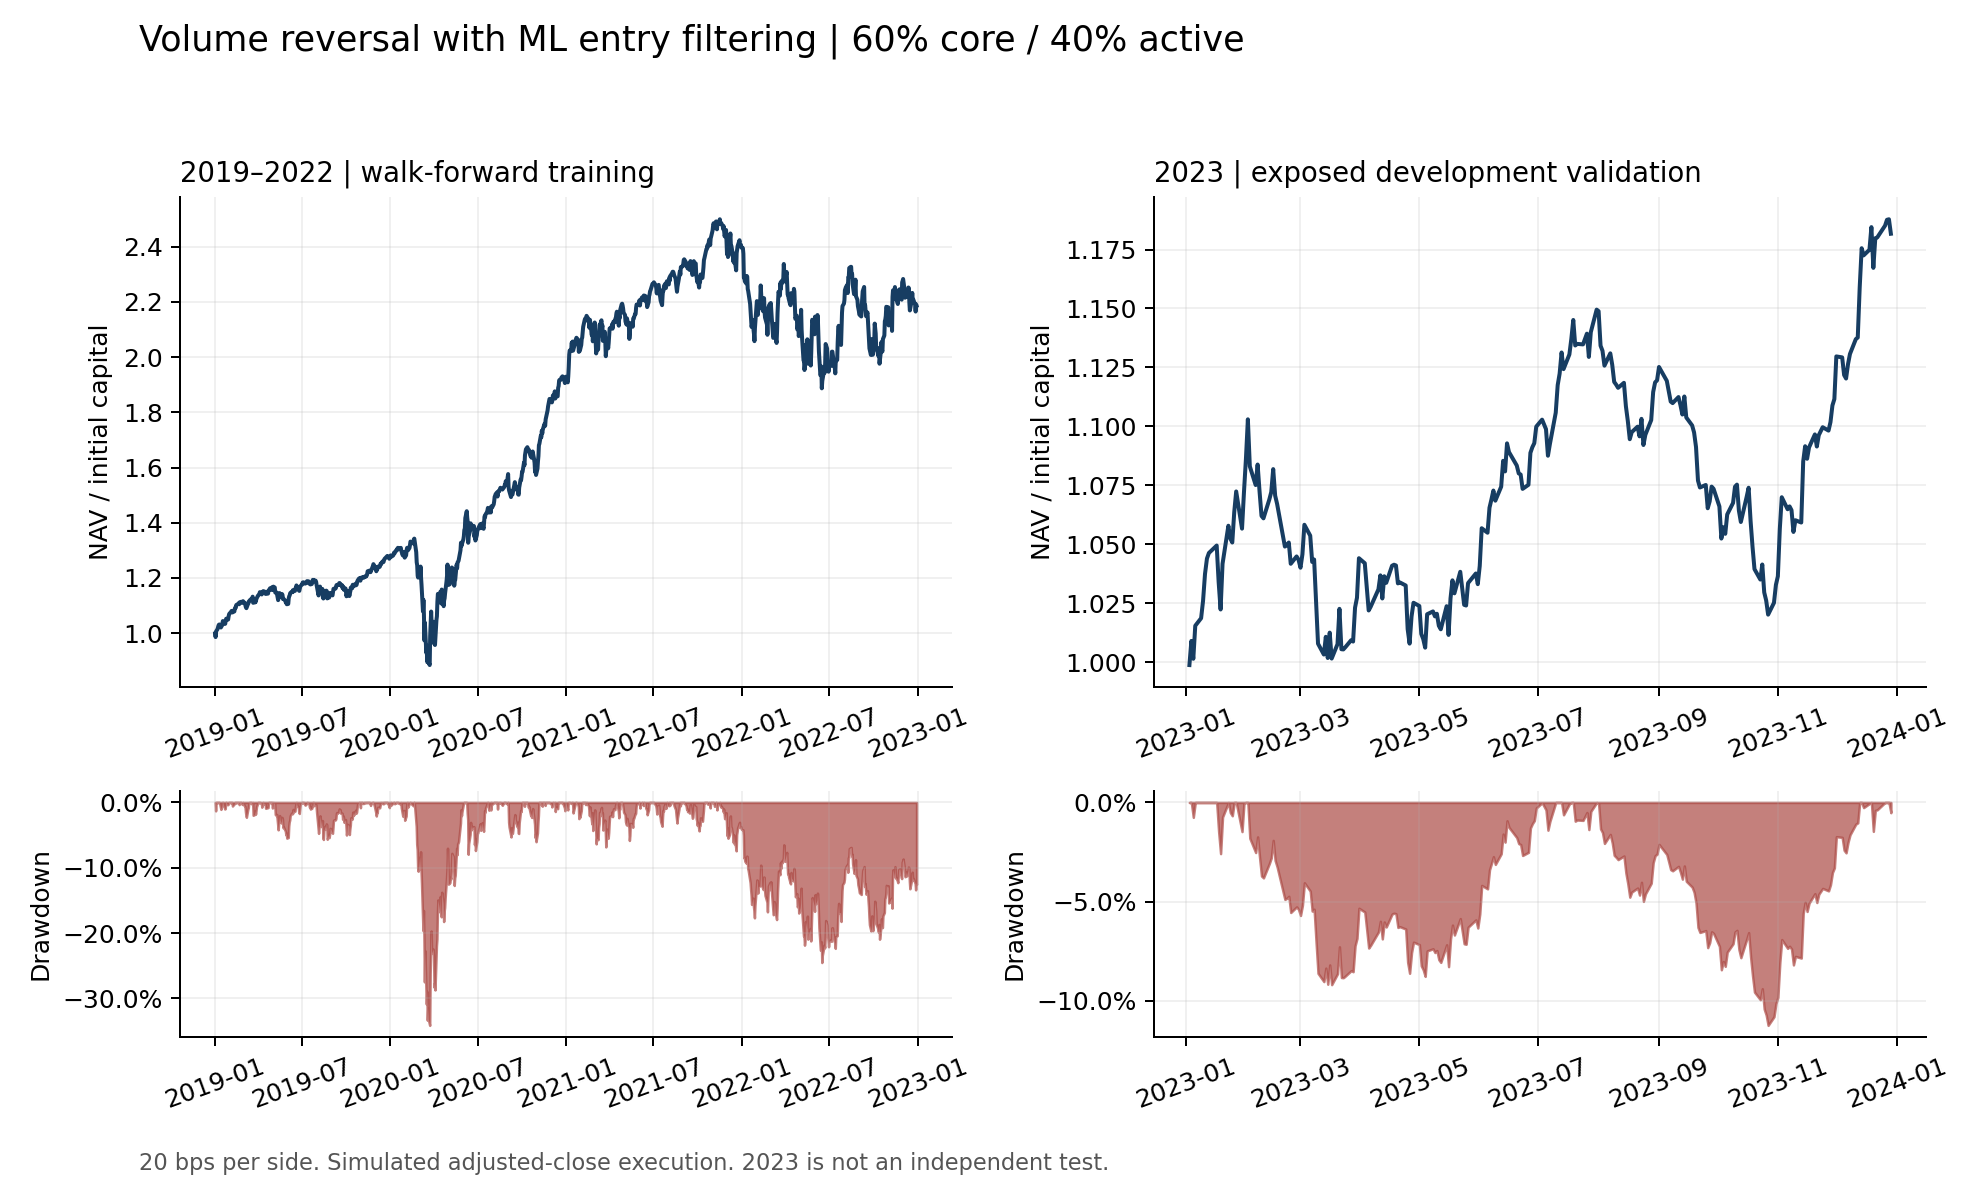
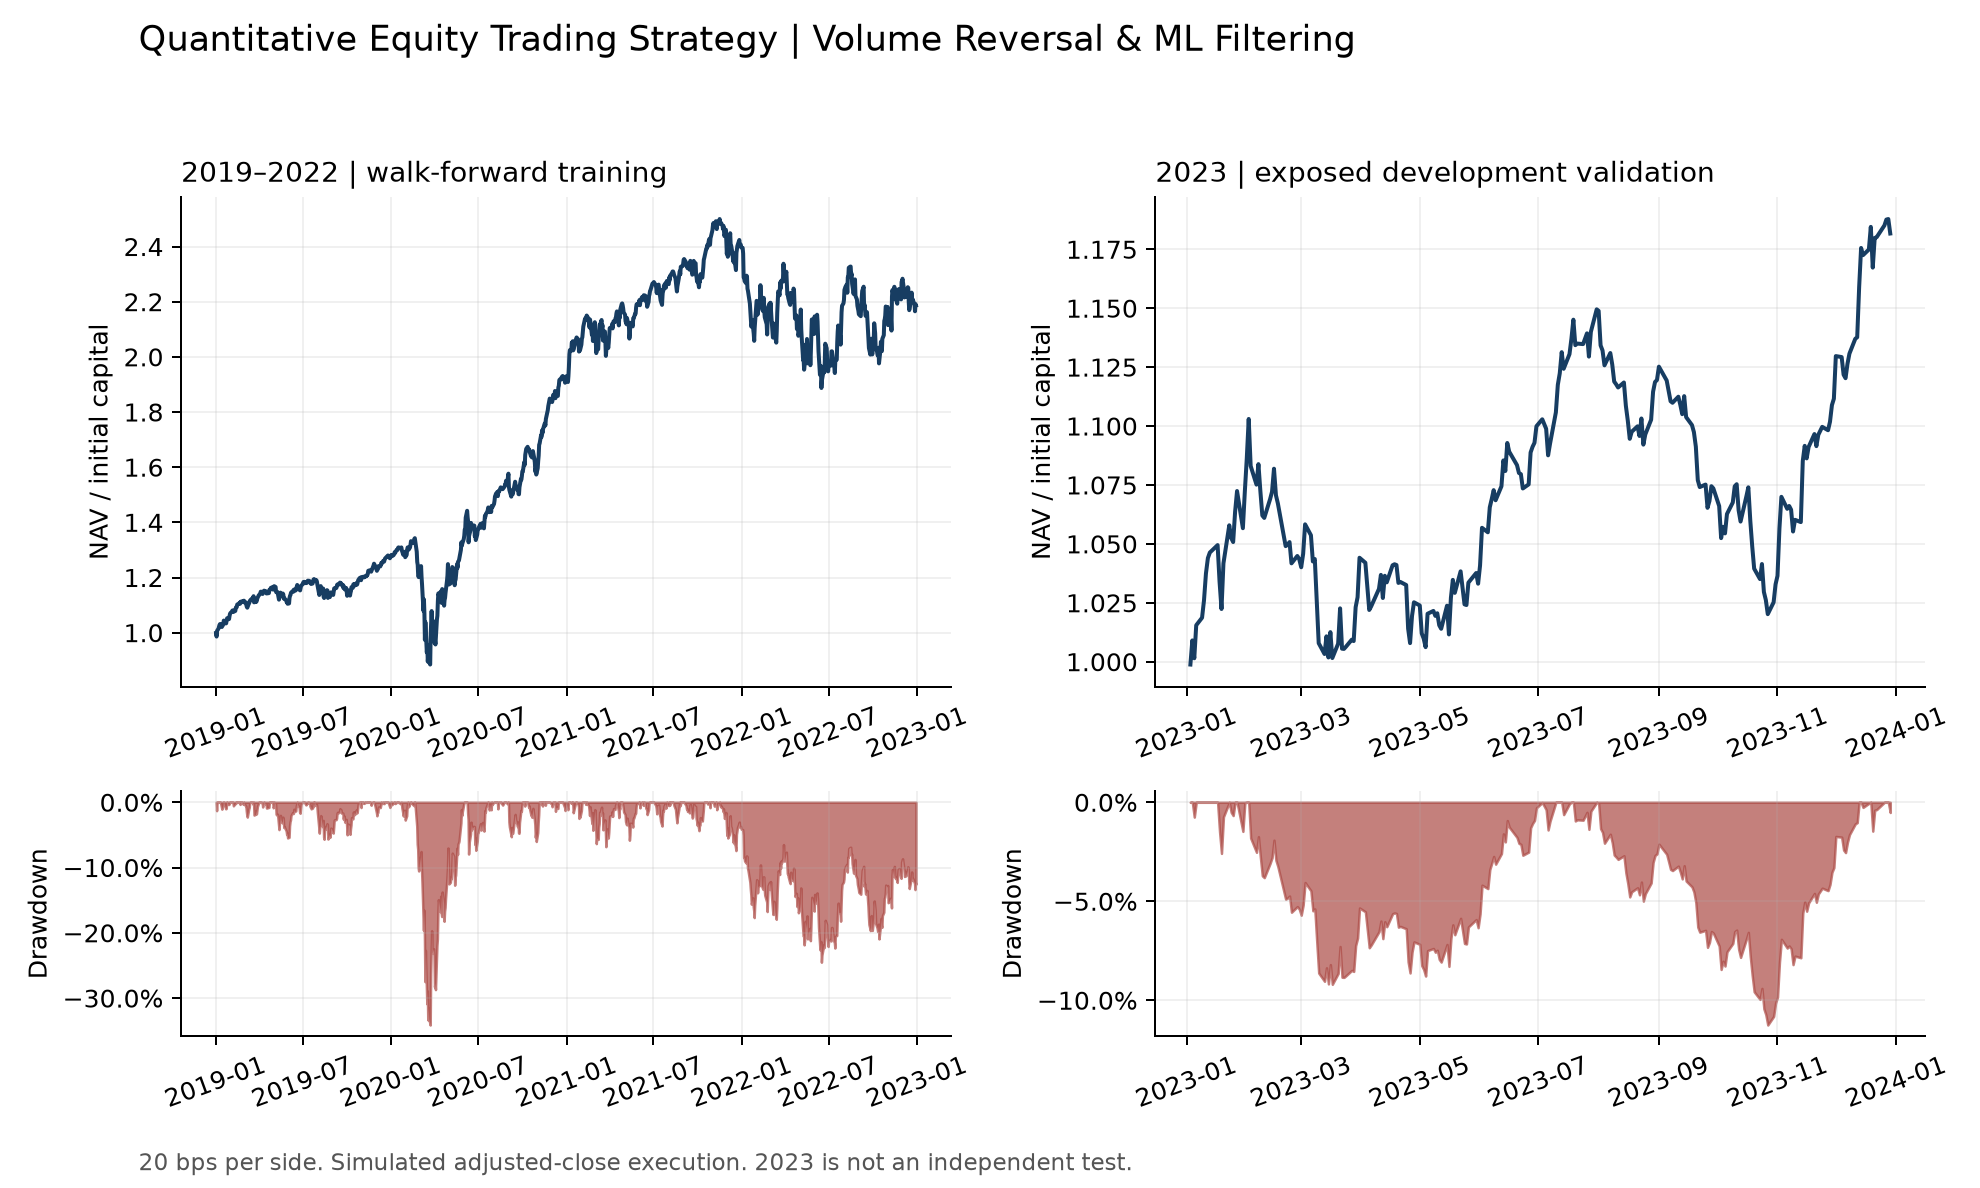
Standardize project naming

diff --git a/scripts/plot_results.py b/scripts/plot_results.py
@@ -28,7 +28,7 @@ def main():
         for a in ax[:, col]:
             a.grid(alpha=.18)
             a.tick_params(axis='x', rotation=20)
-    fig.suptitle('Volume reversal with ML entry filtering | 60% core / 40% active', x=.07, ha='left', fontsize=14)
+    fig.suptitle('Quantitative Equity Trading Strategy | Volume Reversal & ML Filtering', x=.07, ha='left', fontsize=14)
     fig.text(.07, .015, '20 bps per side. Simulated adjusted-close execution. 2023 is not an independent test.', fontsize=9, color='#555555')
     fig.tight_layout(rect=[0, .04, 1, .94])
     target = ROOT / 'docs/figures'

diff --git a/scripts/plot_test.py b/scripts/plot_test.py
@@ -19,7 +19,7 @@ def main():
         peak = np.maximum.accumulate(np.r_[1., nav])[1:]
         axes[0].plot(d.date, nav, label=label, color=color, lw=1.7)
         axes[1].plot(d.date, nav / peak - 1, color=color, lw=1.3)
-    axes[0].set_title('2024–2025 fixed-model test | primary 474 securities', loc='left', fontsize=14)
+    axes[0].set_title('Quantitative Equity Trading Strategy | 2024–2025 Test', loc='left', fontsize=14)
     axes[0].set_ylabel('NAV / initial capital')
     axes[0].legend(frameon=False)
     axes[1].set_ylabel('Drawdown')

diff --git a/scripts/package_source.py b/scripts/package_source.py
@@ -30,7 +30,7 @@ def main():
     target.parent.mkdir(parents=True, exist_ok=True)
     with zipfile.ZipFile(target, 'w', zipfile.ZIP_DEFLATED) as archive:
         for name in sorted(names):
-            archive.write(ROOT / name, f'{ROOT.name}/{name}')
+            archive.write(ROOT / name, f'quantitative-equity-trading-strategy/{name}')
     digest = hashlib.sha256(target.read_bytes()).hexdigest()
     target.with_suffix(target.suffix + '.sha256').write_text(
         f'{digest}  {target.name}\n', encoding='utf-8')

diff --git a/README.md b/README.md
@@ -1,4 +1,6 @@
-# US Equity Volume-Reversal Research
+# Quantitative Equity Trading Strategy
+
+**Volume Reversal & ML Filtering**
 
 To everyone who opens this file: thank you for your time and interest in my
 work. This is my second quantitative strategy, which I developed independently.
